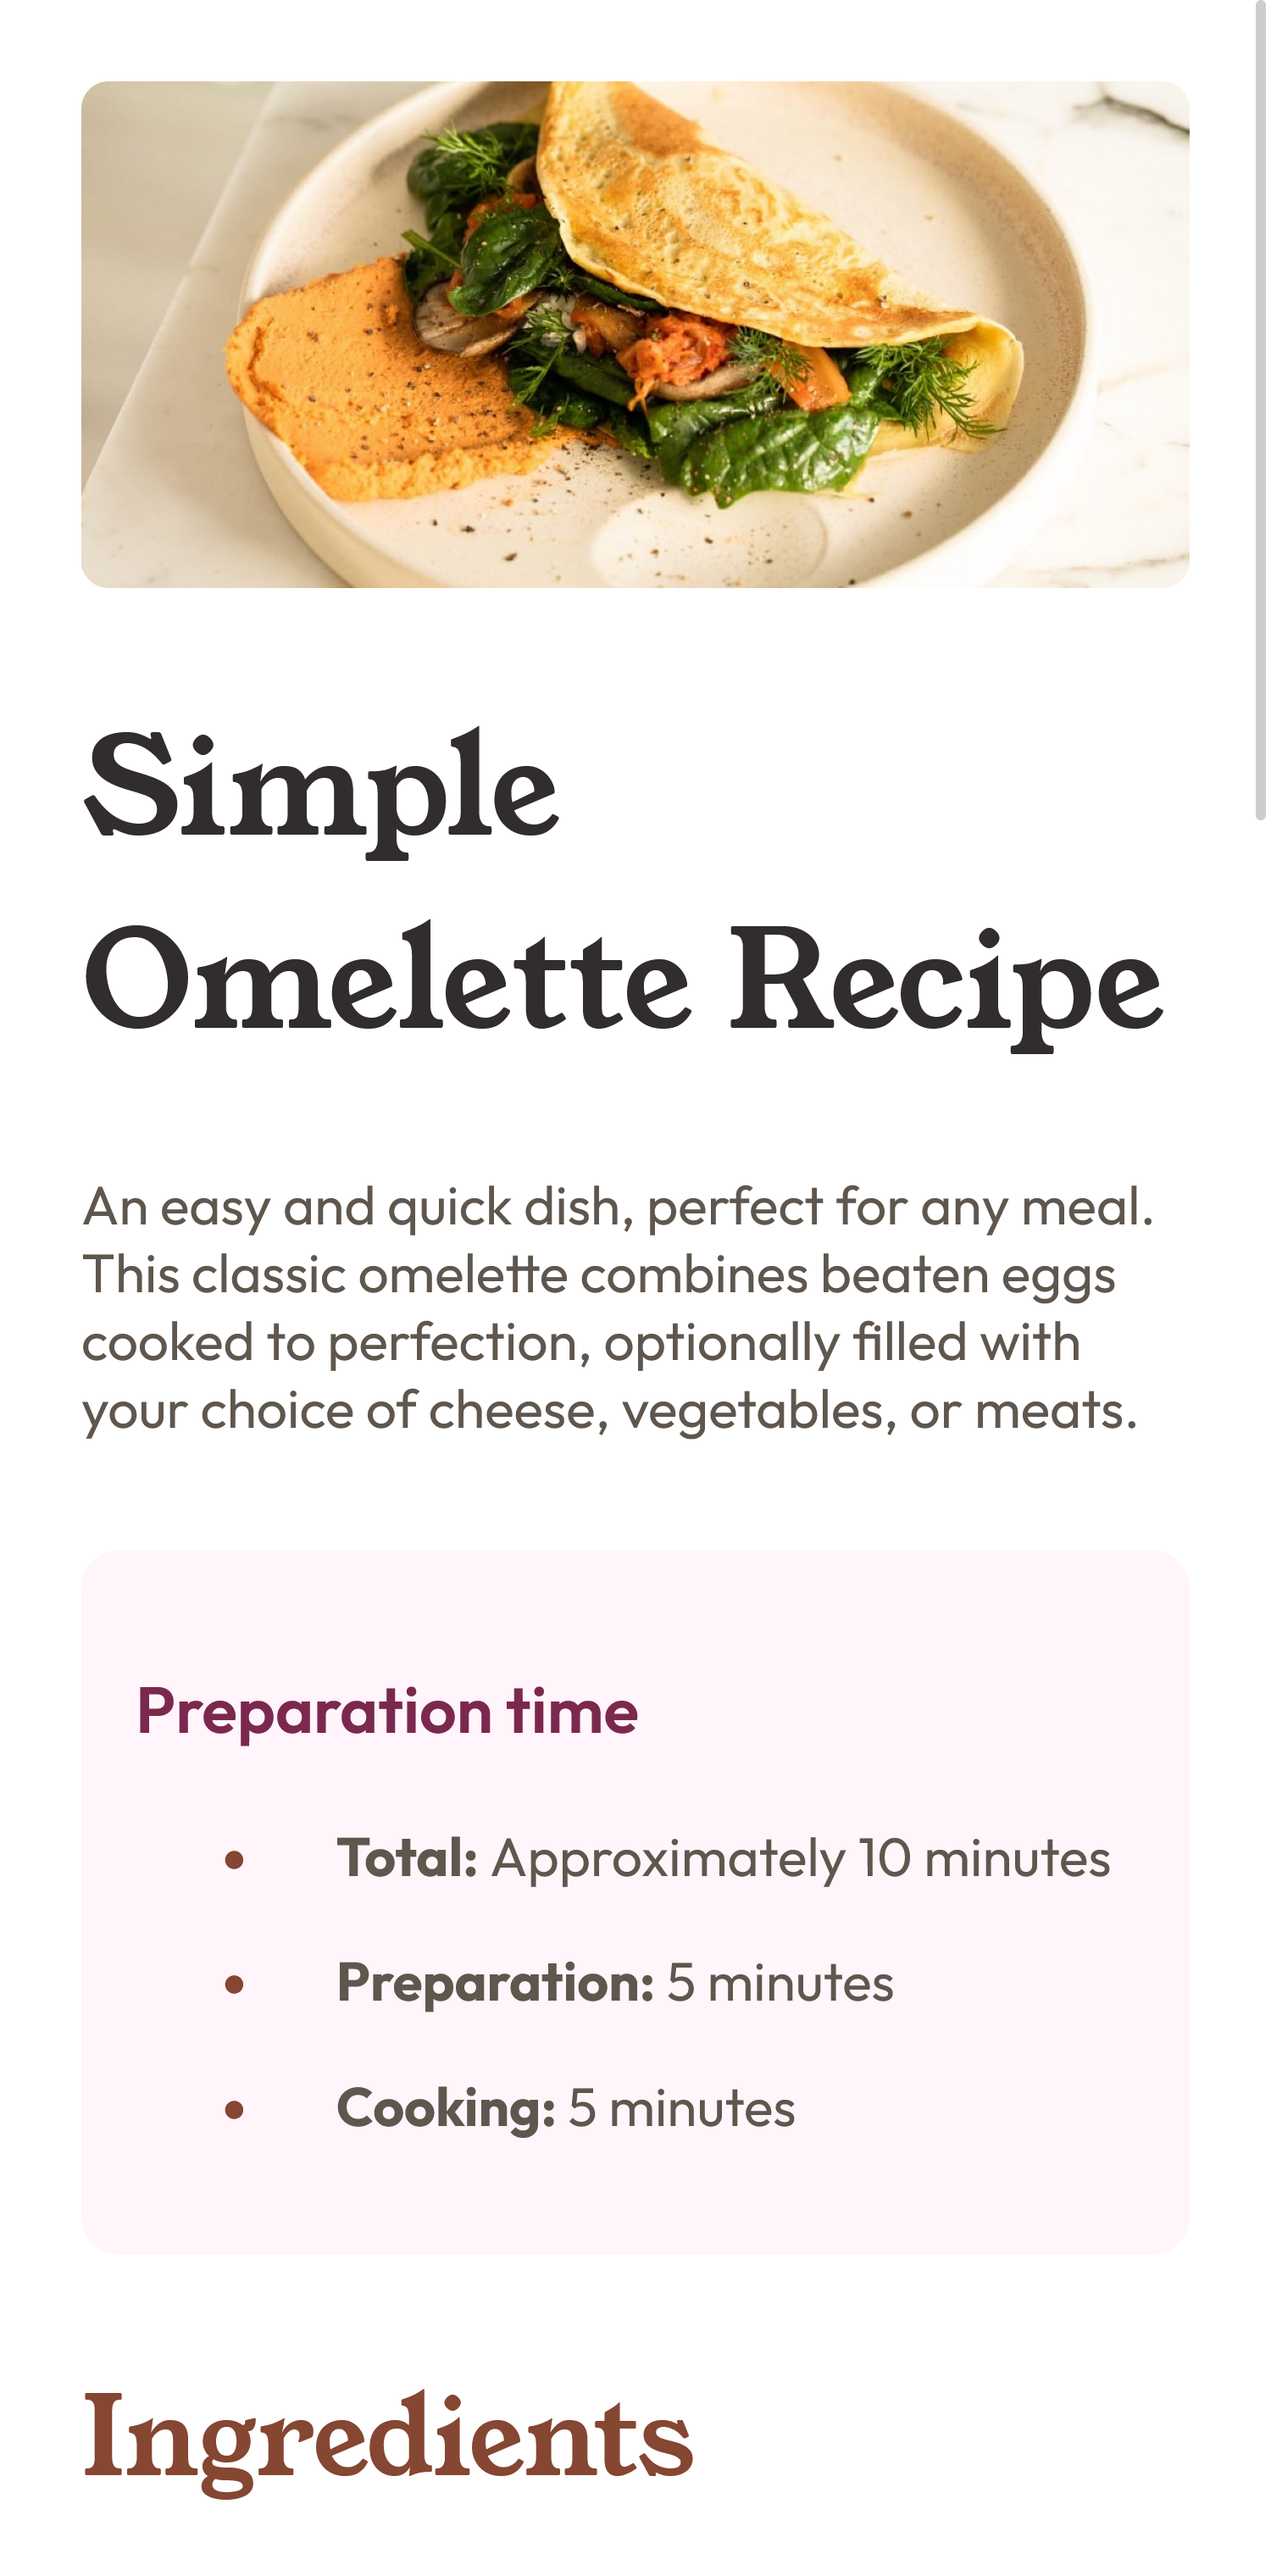
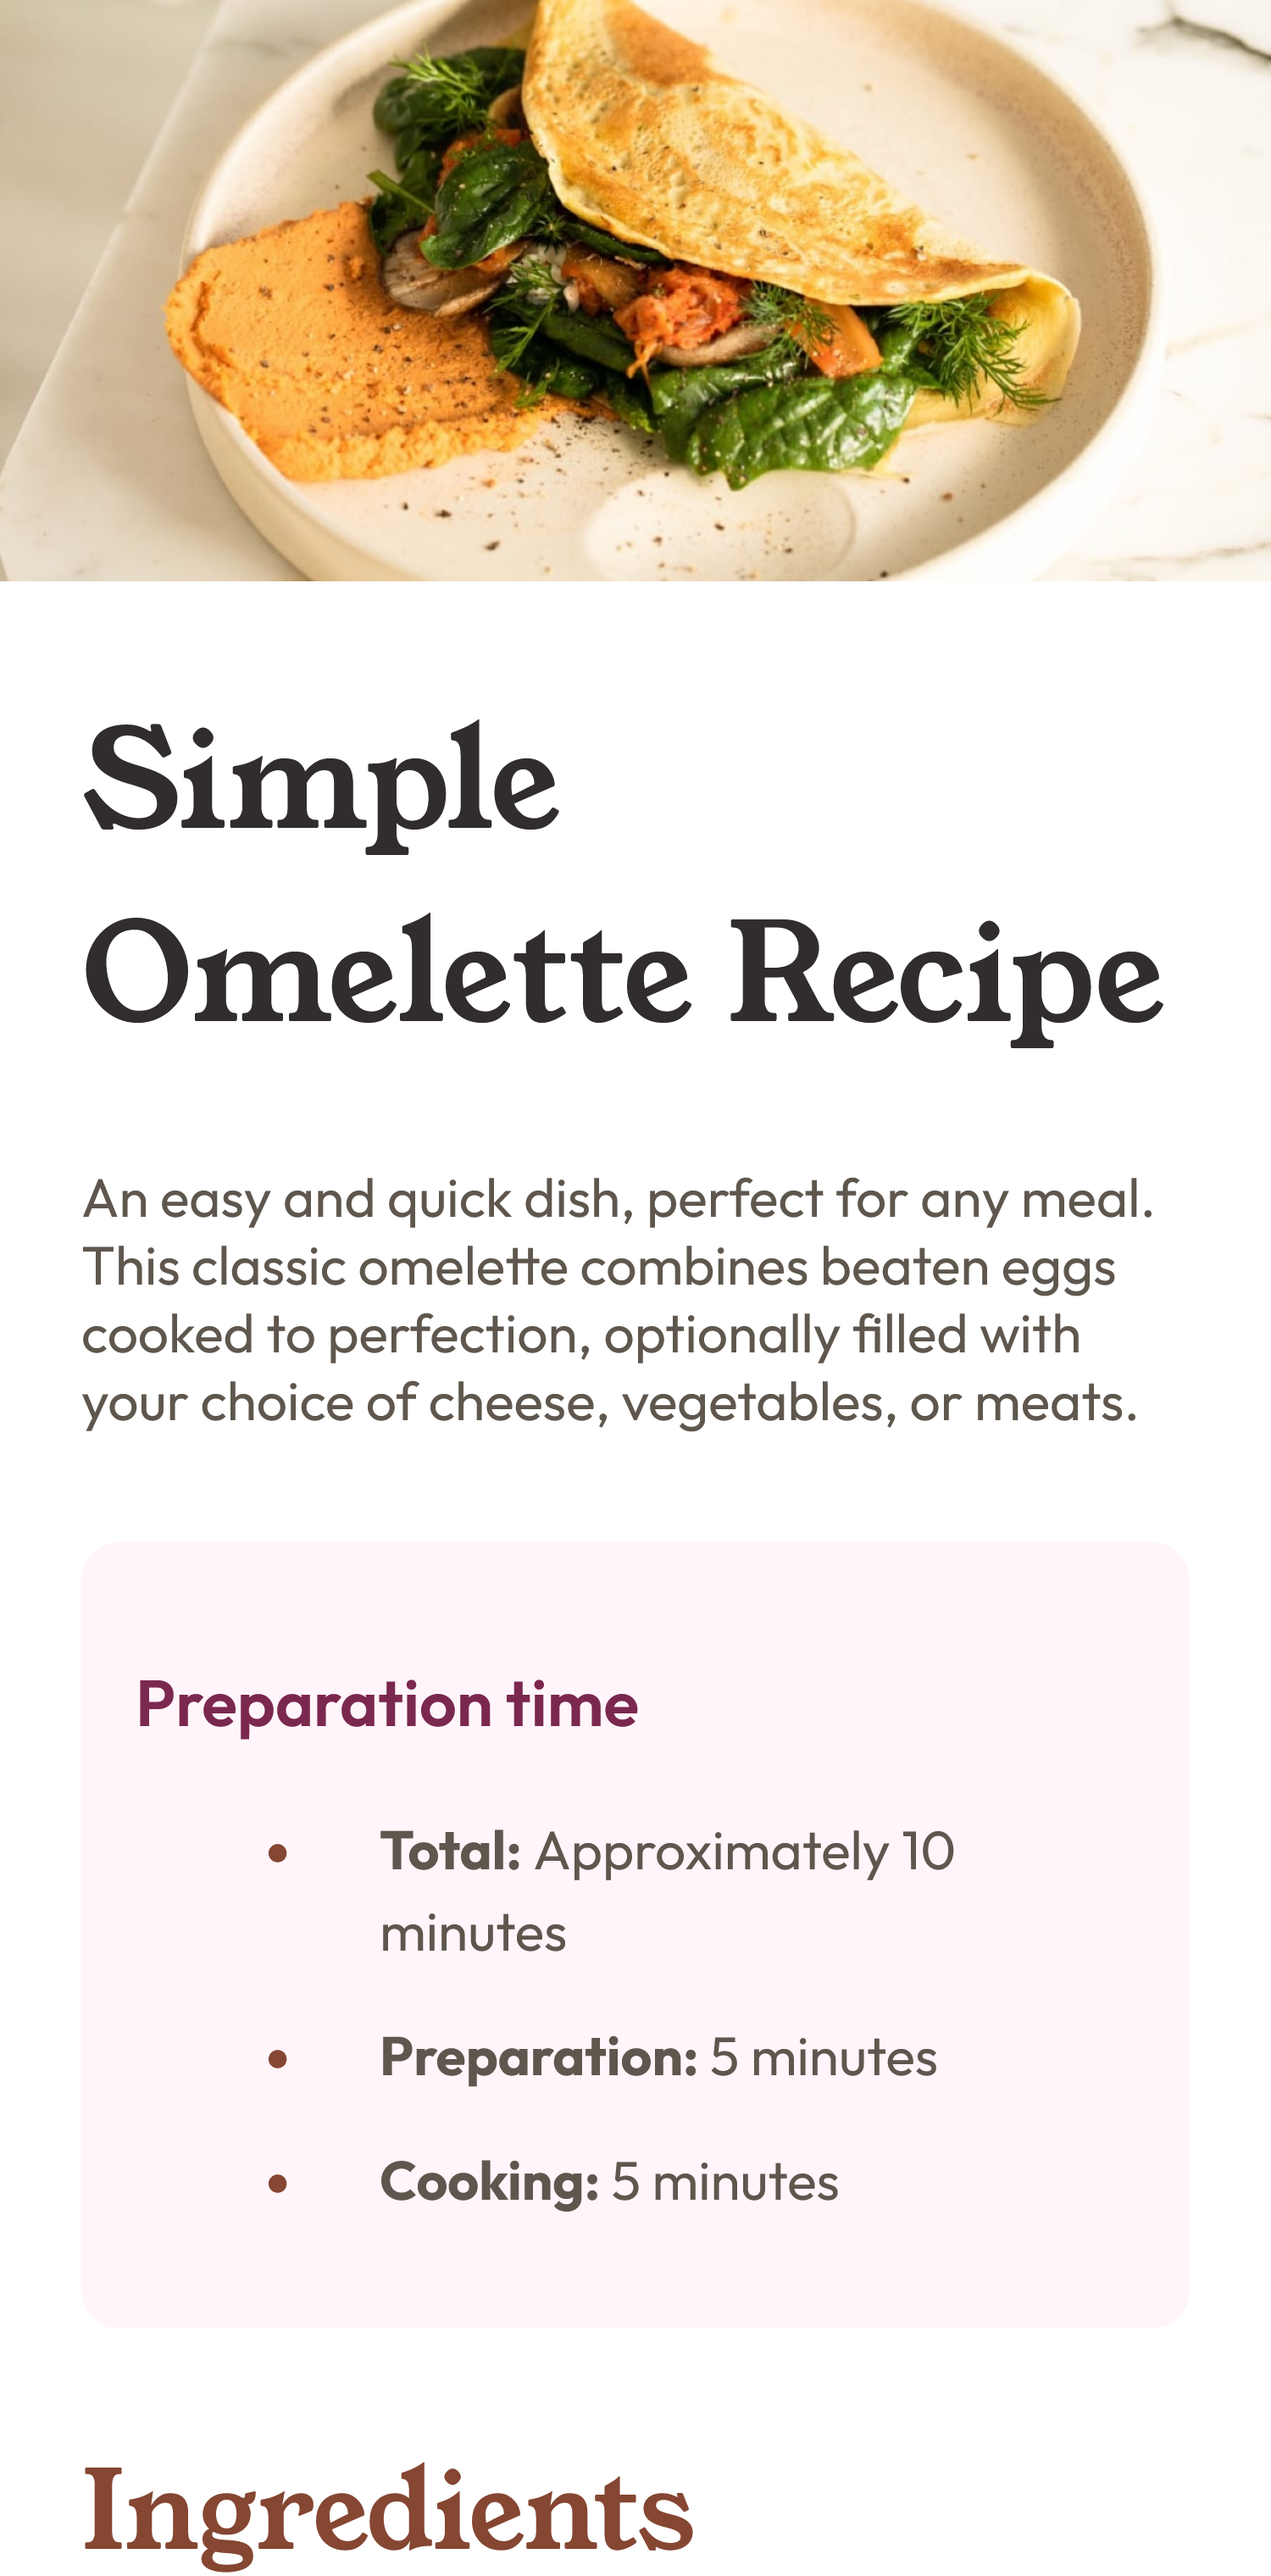
fixed the responsiveness

diff --git a/Recipe page/index.html b/Recipe page/index.html
@@ -15,69 +15,73 @@
   </head>
   <body>
     <main>
-      <img id="recipe-img" src="assets/image-omelette.jpeg" alt="A picture of a classical omelette" />
-      <h1>Simple Omelette Recipe</h1>
-      <p>An easy and quick dish, perfect for any meal. This classic omelette combines beaten eggs cooked to perfection, optionally filled with your choice of cheese, vegetables, or meats.</p>
+      <div id="img-wrapper">
+        <img id="recipe-img" src="assets/image-omelette.jpeg" alt="A picture of a classical omelette" />
+      </div>
+      <div id="text-wrapper">
+        <h1>Simple Omelette Recipe</h1>
+        <p>An easy and quick dish, perfect for any meal. This classic omelette combines beaten eggs cooked to perfection, optionally filled with your choice of cheese, vegetables, or meats.</p>
 
-      <article id="duration-wrapper">
-        <p class="duration-header">Preparation time</p>
-        <ul>
-          <li><b>Total:</b> Approximately 10 minutes</li>
-          <li><b>Preparation:</b> 5 minutes</li>
-          <li><b>Cooking:</b> 5 minutes</li>
-        </ul>
-      </article>
+        <article id="duration-wrapper">
+          <p class="duration-header">Preparation time</p>
+          <ul>
+            <li><b>Total:</b> Approximately 10 minutes</li>
+            <li><b>Preparation:</b> 5 minutes</li>
+            <li><b>Cooking:</b> 5 minutes</li>
+          </ul>
+        </article>
 
-      <section id="ingredients">
-        <h2>Ingredients</h2>
-        <ul>
-          <li>2-3 large eggs</li>
-          <li>Salt, to taste</li>
-          <li> Pepper, to taste</li>
-          <li>1 tablespoon of butter or oil</li>
-          <li>Optional fillings: cheese, diced vegetables, cooked meats, herbs</li>
-        </ul>
-      </section>
+        <section id="ingredients">
+          <h2>Ingredients</h2>
+          <ul>
+            <li>2-3 large eggs</li>
+            <li>Salt, to taste</li>
+            <li> Pepper, to taste</li>
+            <li>1 tablespoon of butter or oil</li>
+            <li>Optional fillings: cheese, diced vegetables, cooked meats, herbs</li>
+          </ul>
+        </section>
 
-      <hr />
+        <hr />
 
-      <section id="instructions">
-        <h2>Instructions</h2>
-        <ol>
-          <li><b>Beat the eggs:</b> In a bowl, beat the eggs with a pinch of salt and pepper until they are well mixed. You can add a tablespoon of water or milk for a fluffier texture. </li>
-          <li><b>Heat the pan:</b> Place a non-stick frying pan over medium heat and add butter or oil. </li>
-          <li><b>Cook the omelette:</b> Once the butter is melted and bubbling, pour in the eggs. Tilt the pan to ensure the eggs evenly coat the surface. </li>
-          <li><b>Add fillings (optional):</b> When the eggs begin to set at the edges but are still slightly runny in the middle, sprinkle your chosen fillings over one half of the omelette. </li>
-          <li><b>Fold and serve:</b> As the omelette continues to cook, carefully lift one edge and fold it over the fillings. Let it cook for another minute, then slide it onto a plate. </li>
-          <li><b>Enjoy:</b> Serve hot, with additional salt and pepper if needed. </li>
-        </ol>
-      </section>
+        <section id="instructions">
+          <h2>Instructions</h2>
+          <ol>
+            <li><b>Beat the eggs:</b> In a bowl, beat the eggs with a pinch of salt and pepper until they are well mixed. You can add a tablespoon of water or milk for a fluffier texture. </li>
+            <li><b>Heat the pan:</b> Place a non-stick frying pan over medium heat and add butter or oil. </li>
+            <li><b>Cook the omelette:</b> Once the butter is melted and bubbling, pour in the eggs. Tilt the pan to ensure the eggs evenly coat the surface. </li>
+            <li><b>Add fillings (optional):</b> When the eggs begin to set at the edges but are still slightly runny in the middle, sprinkle your chosen fillings over one half of the omelette. </li>
+            <li><b>Fold and serve:</b> As the omelette continues to cook, carefully lift one edge and fold it over the fillings. Let it cook for another minute, then slide it onto a plate. </li>
+            <li><b>Enjoy:</b> Serve hot, with additional salt and pepper if needed. </li>
+          </ol>
+        </section>
 
-      <hr />
+        <hr />
 
-      <section id="nutrition">
-        <h2>Nutrition</h2>
-        <p>The table below shows nutritional values per serving without the additional fillings.</p>
-        <table>
-          <tr>
-            <th>Calories</th>
-            <td>277kcal</td>
-          </tr>
-          <tr class="table-hr"></tr>
-          <tr>
-            <th>Carbs</th>
-            <td>0g</td>
-          </tr>
-          <tr>
-            <th>Protein</th>
-            <td>20g</td>
-          </tr>
-          <tr>
-            <th>Fat</th>
-            <td>22g</td>
-          </tr>
-        </table>
-      </section>
+        <section id="nutrition">
+          <h2>Nutrition</h2>
+          <p>The table below shows nutritional values per serving without the additional fillings.</p>
+          <table>
+            <tr>
+              <th>Calories</th>
+              <td>277kcal</td>
+            </tr>
+            <tr class="table-hr"></tr>
+            <tr>
+              <th>Carbs</th>
+              <td>0g</td>
+            </tr>
+            <tr>
+              <th>Protein</th>
+              <td>20g</td>
+            </tr>
+            <tr>
+              <th>Fat</th>
+              <td>22g</td>
+            </tr>
+          </table>
+        </section>
+      </div>
     </main>
     <footer>
       <div class="attribution">

diff --git a/Recipe page/styles.css b/Recipe page/styles.css
@@ -18,9 +18,16 @@ main {
   width: 750px;
   max-width: 100%;
   background-color: hsl(0, 0%, 100%);
-  padding: 2.5em;
   border-radius: 1rem;
   margin: 6em auto 0.5em auto;
+}
+
+#img-wrapper {
+  padding: 2.5em 2.5em 0 2.5em;
+}
+
+#text-wrapper {
+  padding: 0 2.5em 2.5em 2.5em;
 }
 
 #recipe-img {
@@ -80,7 +87,7 @@ th {
 
 li {
   line-height: 1.5rem;
-  margin: 0.8em auto;
+  margin: 0.8em auto 0.8em 0.8em;
   padding-left: 1.2em;
 }
 
@@ -93,7 +100,7 @@ table {
 th {
   font-weight: 400;
   font-size: 1.1rem;
-  padding: 1em 0 1em 2em;
+  padding: 0.8em 0 0.8em 2em;
   width: 50%;
 }
 
@@ -116,12 +123,23 @@ tr:not(:last-child) {
 
 @media only screen and (max-width: 750px) {
   main {
-    padding: 1.5em;
     margin: auto auto;
     border-radius: 0;
   }
 
+  #img-wrapper {
+    padding: 0;
+  }
+
+  #text-wrapper {
+    padding: 0 1.5em 1.5em 1.5em;
+  }
+
   #recipe-img {
-    border-radius: 0.5rem;
+    border-radius: 0;
+  }
+
+  .attribution {
+    margin-bottom: 0;
   }
 }
